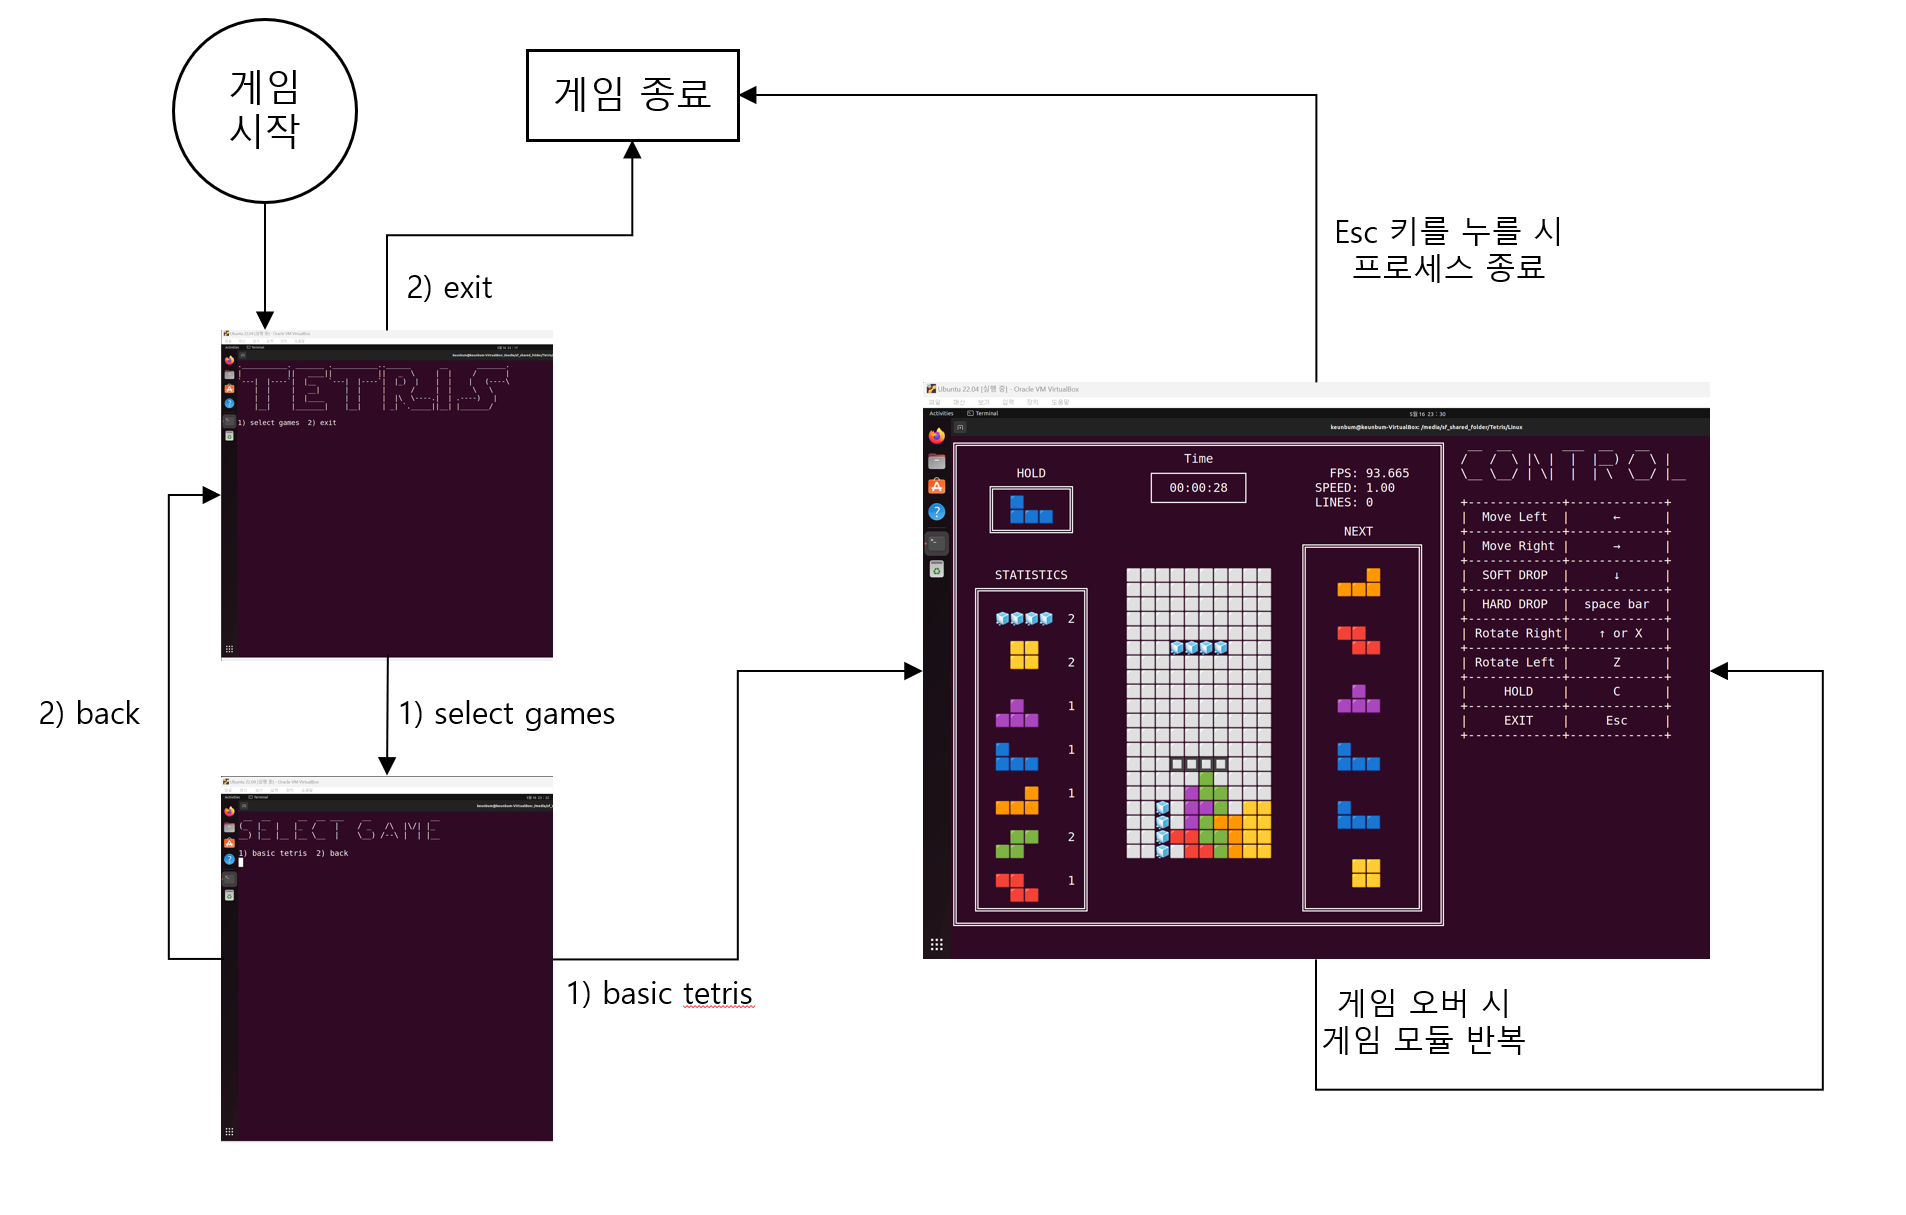
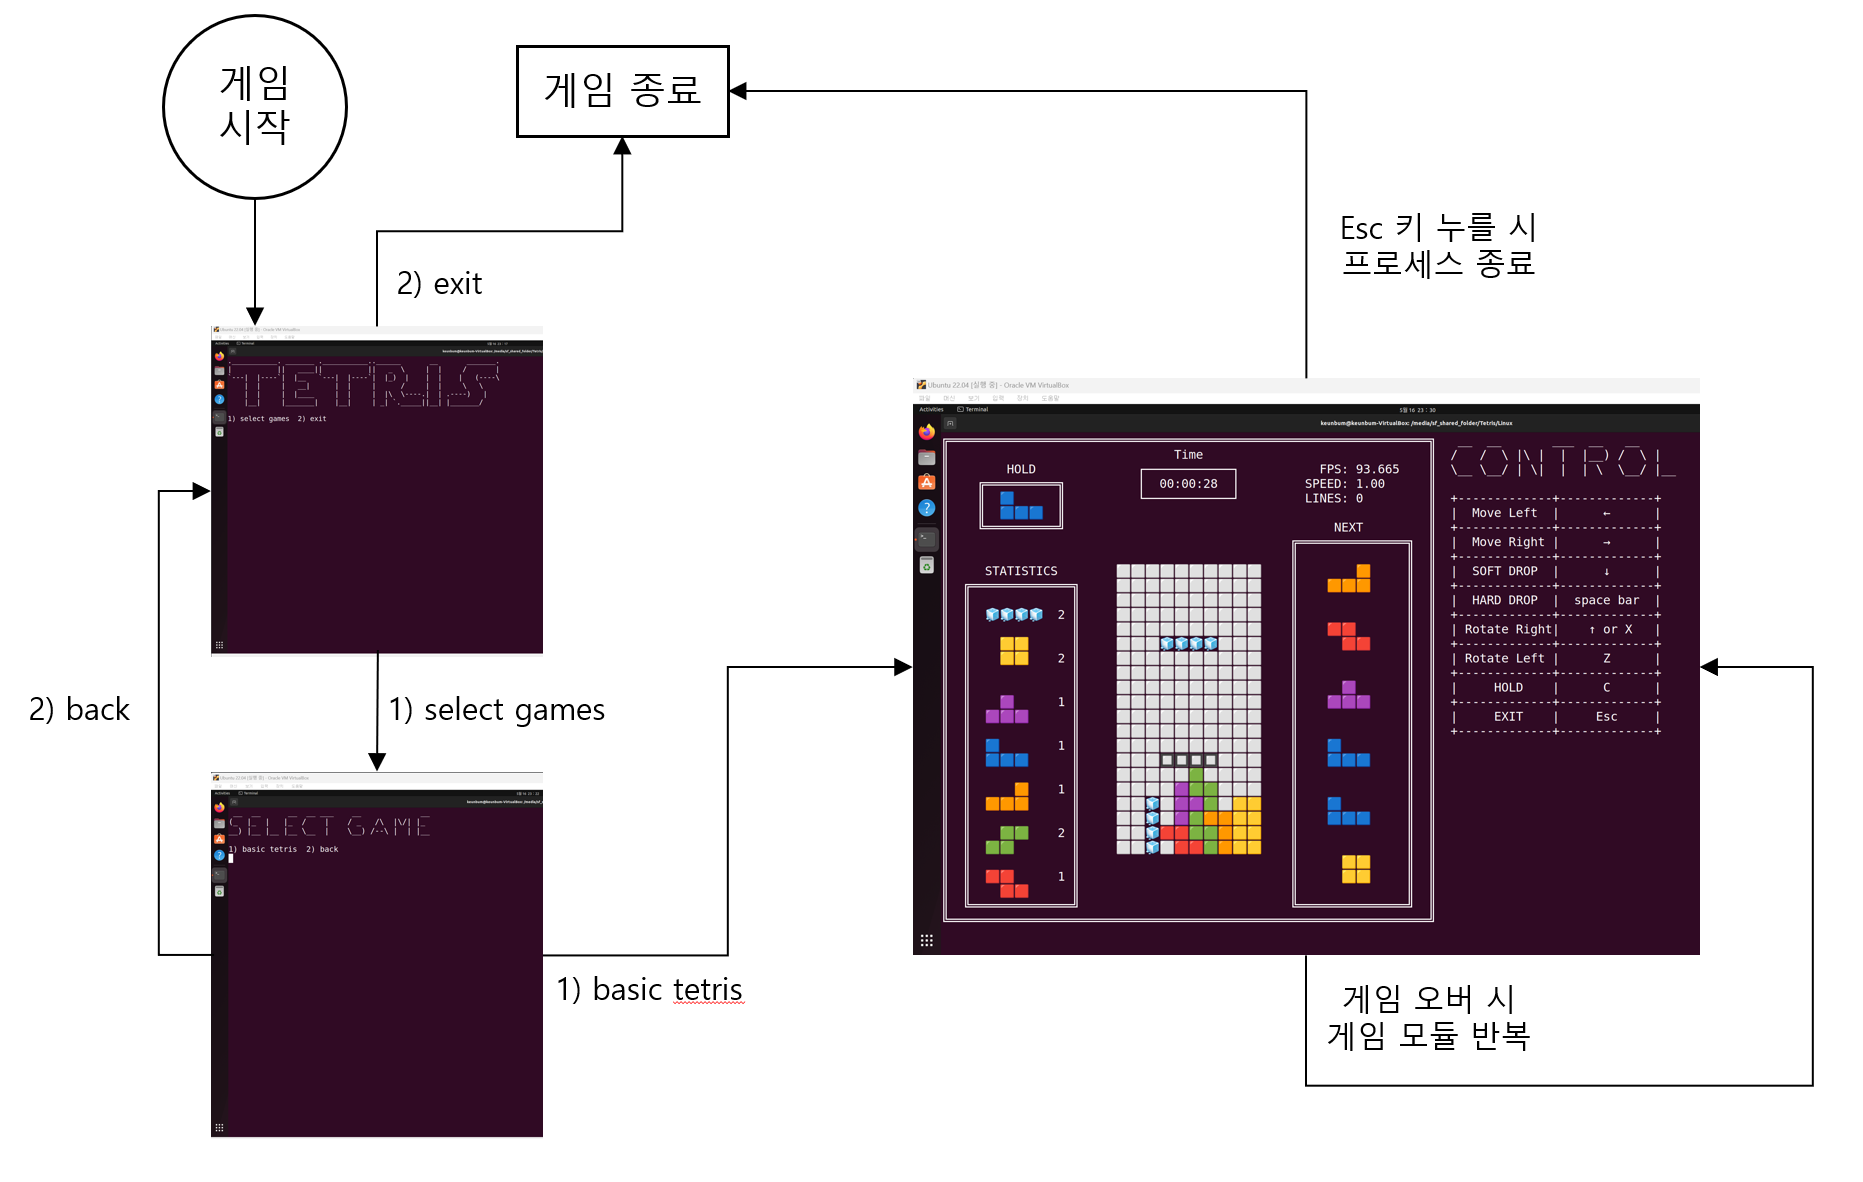
Resize img in solution.md

diff --git a/Linux/solution.md b/Linux/solution.md
@@ -16,14 +16,15 @@
 
 ### Q1. 전반적인 아키텍처나 프로그램 흐름을 설명해줄 수 있겠는가?
 
-게임 흐름을 겉으로 보이는 사용자와의 접점만 감안하여 작성해 보면 다음과 같다.  
-(가이드라인에 따르면 원래는 Esc를 누르면 Exit이 아니라 Pause를 해야 한다. 여력이 없어 Pause를 구현하지 못했다.)
+- 게임 흐름을 겉으로 보이는 사용자와의 접점만 감안하여 작성해 보면 다음과 같다.  
+(가이드라인에 따르면 원래는 Esc를 누르면 Exit이 아니라 Pause를 해야 한다. 여력이 없어 Pause를 구현하지 못했다.  
+그리고 게임 오버 시에도 따로 메시지를 띄워서 한 판 더 할 것인지, 아님 게임 선택 화면으로 돌아갈 것인지 묻게끔 구현해야 하는데 그러지 못했다.)
 
-<img src = ../img/%EA%B2%8C%EC%9E%84_%EB%A1%9C%EC%A7%81_1.png width="40%" height="40%">
+    <img src = ../img/%EA%B2%8C%EC%9E%84_%EB%A1%9C%EC%A7%81_1.png width="80%" height="80%">
 
 
 
-이제 프로세스/스레드 관점에서 다시 봐 보자.
+- 이제 이를 프로세스/스레드 관점에서 다시 봐 보자.
 
 
 
